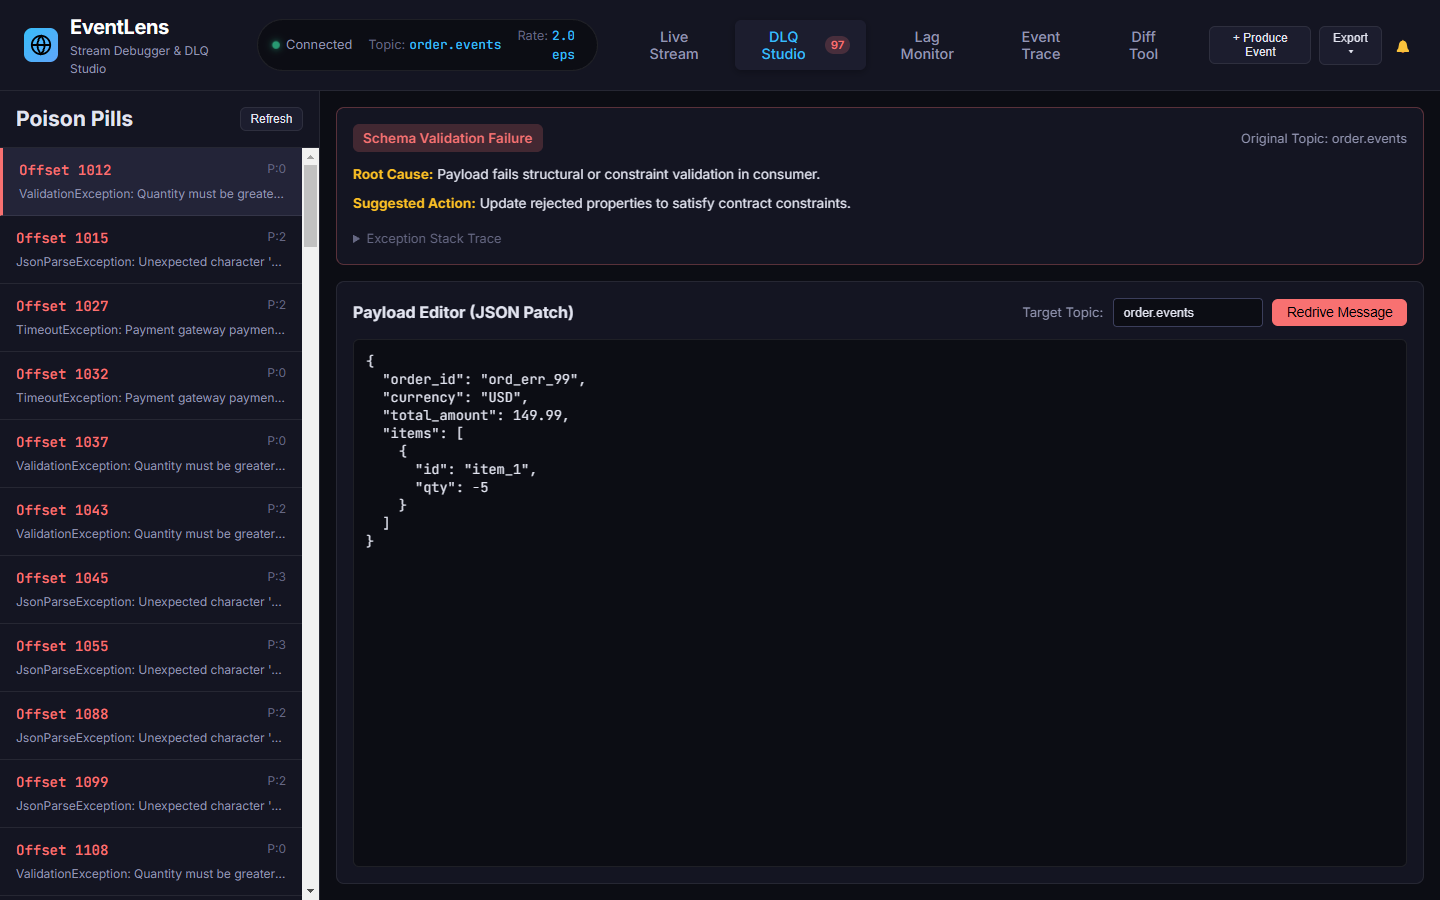
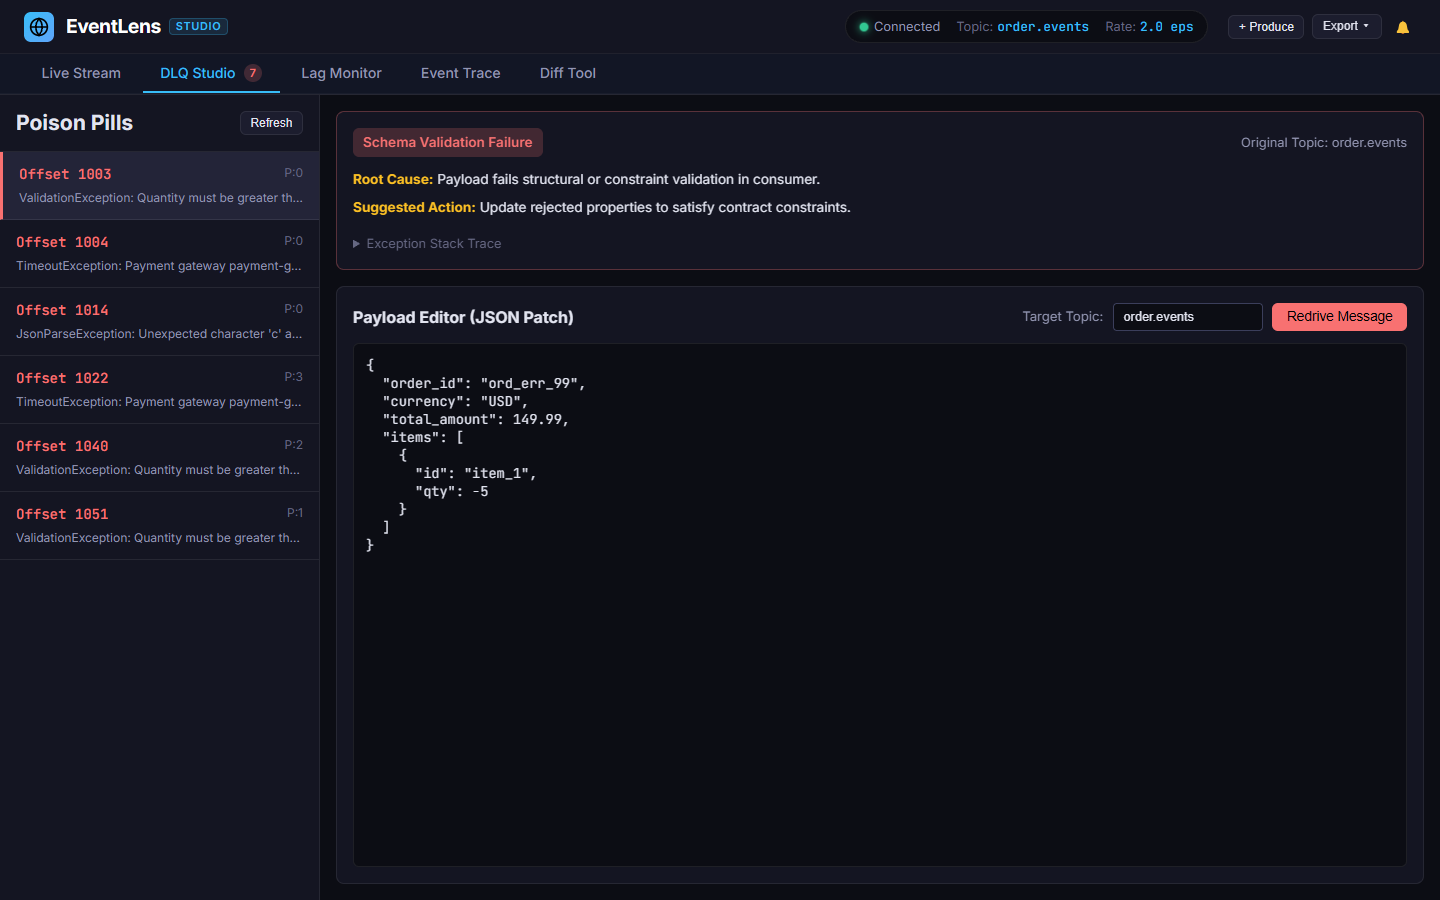
refactor(web): implement two-tier modern navbar architecture to eliminate header clutter and update screenshots

diff --git a/src/eventlens/web/static/index.html b/src/eventlens/web/static/index.html
@@ -12,57 +12,63 @@
 </head>
 <body class="dark-theme">
   <header class="app-header" id="app-header">
-    <div class="brand-group">
-      <div class="logo-badge">
-        <svg width="22" height="22" viewBox="0 0 24 24" fill="none" stroke="currentColor" stroke-width="2">
-          <circle cx="12" cy="12" r="10"></circle>
-          <line x1="2" y1="12" x2="22" y2="12"></line>
-          <path d="M12 2a15.3 15.3 0 0 1 4 10 15.3 15.3 0 0 1-4 10 15.3 15.3 0 0 1-4-10 15.3 15.3 0 0 1 4-10z"></path>
-        </svg>
-      </div>
-      <div class="brand-text">
-        <h1 class="brand-title">EventLens</h1>
-        <span class="brand-subtitle">Stream Debugger & DLQ Studio</span>
-      </div>
-    </div>
-
-    <div class="header-status-panel">
-      <div class="status-chip" id="connection-status">
-        <span class="status-dot pulse-green"></span>
-        <span id="conn-text">Connecting...</span>
-      </div>
-      <div class="metric-chip">
-        <span class="metric-label">Topic:</span>
-        <span class="metric-val" id="active-topic">-</span>
-      </div>
-      <div class="metric-chip">
-        <span class="metric-label">Rate:</span>
-        <span class="metric-val" id="eps-counter">0.0 eps</span>
-      </div>
-    </div>
-
-    <nav class="nav-tabs" id="navigation-tabs">
-      <button class="tab-btn active" data-tab="streams" id="tab-streams-btn">Live Stream</button>
-      <button class="tab-btn" data-tab="dlq" id="tab-dlq-btn">
-        DLQ Studio <span class="badge badge-red" id="dlq-count-badge">0</span>
-      </button>
-      <button class="tab-btn" data-tab="lag" id="tab-lag-btn">Lag Monitor</button>
-      <button class="tab-btn" data-tab="trace" id="tab-trace-btn">Event Trace</button>
-      <button class="tab-btn" data-tab="diff" id="tab-diff-btn">Diff Tool</button>
-    </nav>
-
-    <div class="header-action-group">
-      <button class="btn btn-secondary btn-sm" id="btn-open-produce">+ Produce Event</button>
-      <div class="dropdown">
-        <button class="btn btn-secondary btn-sm" id="btn-export-dropdown">Export ▾</button>
-        <div class="dropdown-menu" id="export-menu">
-          <a href="/api/export?format=json" download="eventlens_stream.json">JSON Format</a>
-          <a href="/api/export?format=ndjson" download="eventlens_stream.ndjson">NDJSON Format</a>
-          <a href="/api/export?format=csv" download="eventlens_stream.csv">CSV Format</a>
-          <a href="/api/export?format=json&dlq_only=true" download="eventlens_dlq.json">DLQ Only (JSON)</a>
+    <div class="header-top">
+      <div class="brand-group">
+        <div class="logo-badge">
+          <svg width="20" height="20" viewBox="0 0 24 24" fill="none" stroke="currentColor" stroke-width="2">
+            <circle cx="12" cy="12" r="10"></circle>
+            <line x1="2" y1="12" x2="22" y2="12"></line>
+            <path d="M12 2a15.3 15.3 0 0 1 4 10 15.3 15.3 0 0 1-4 10 15.3 15.3 0 0 1-4-10 15.3 15.3 0 0 1 4-10z"></path>
+          </svg>
+        </div>
+        <div class="brand-title-wrap">
+          <h1 class="brand-title">EventLens</h1>
+          <span class="brand-tag">Studio</span>
         </div>
       </div>
-      <button class="btn-icon" id="btn-toggle-sound" title="Toggle Audio Alerts">🔔</button>
+
+      <div class="header-right-group">
+        <div class="header-status-panel">
+          <div class="status-chip" id="connection-status">
+            <span class="status-dot pulse-green"></span>
+            <span id="conn-text">Connecting...</span>
+          </div>
+          <div class="metric-chip">
+            <span class="metric-label">Topic:</span>
+            <span class="metric-val" id="active-topic">-</span>
+          </div>
+          <div class="metric-chip">
+            <span class="metric-label">Rate:</span>
+            <span class="metric-val" id="eps-counter">0.0 eps</span>
+          </div>
+        </div>
+
+        <div class="header-action-group">
+          <button class="btn btn-secondary btn-sm" id="btn-open-produce">+ Produce</button>
+          <div class="dropdown">
+            <button class="btn btn-secondary btn-sm" id="btn-export-dropdown">Export ▾</button>
+            <div class="dropdown-menu" id="export-menu">
+              <a href="/api/export?format=json" download="eventlens_stream.json">JSON Format</a>
+              <a href="/api/export?format=ndjson" download="eventlens_stream.ndjson">NDJSON Format</a>
+              <a href="/api/export?format=csv" download="eventlens_stream.csv">CSV Format</a>
+              <a href="/api/export?format=json&dlq_only=true" download="eventlens_dlq.json">DLQ Only (JSON)</a>
+            </div>
+          </div>
+          <button class="btn-icon" id="btn-toggle-sound" title="Toggle Audio Alerts">🔔</button>
+        </div>
+      </div>
+    </div>
+
+    <div class="header-subnav">
+      <nav class="nav-tabs" id="navigation-tabs">
+        <button class="tab-btn active" data-tab="streams" id="tab-streams-btn">Live Stream</button>
+        <button class="tab-btn" data-tab="dlq" id="tab-dlq-btn">
+          DLQ Studio <span class="badge badge-red" id="dlq-count-badge">0</span>
+        </button>
+        <button class="tab-btn" data-tab="lag" id="tab-lag-btn">Lag Monitor</button>
+        <button class="tab-btn" data-tab="trace" id="tab-trace-btn">Event Trace</button>
+        <button class="tab-btn" data-tab="diff" id="tab-diff-btn">Diff Tool</button>
+      </nav>
     </div>
   </header>
 

diff --git a/src/eventlens/web/static/styles.css b/src/eventlens/web/static/styles.css
@@ -43,40 +43,70 @@ body {
 .app-header {
   background: var(--bg-surface);
   border-bottom: 1px solid var(--border-subtle);
-  padding: 0.75rem 1.5rem;
+  display: flex;
+  flex-direction: column;
+}
+
+.header-top {
   display: flex;
   align-items: center;
   justify-content: space-between;
+  padding: 0.65rem 1.5rem;
   gap: 1.5rem;
+  border-bottom: 1px solid rgba(255, 255, 255, 0.05);
 }
 
 .brand-group {
   display: flex;
   align-items: center;
   gap: 0.75rem;
+  white-space: nowrap;
 }
 
 .logo-badge {
   background: linear-gradient(135deg, var(--accent-cyan), var(--accent-blue));
   color: #000;
-  border-radius: 8px;
-  padding: 6px;
+  border-radius: 7px;
+  padding: 5px;
   display: flex;
   align-items: center;
   justify-content: center;
+  flex-shrink: 0;
+}
+
+.brand-title-wrap {
+  display: flex;
+  align-items: center;
+  gap: 0.5rem;
 }
 
 .brand-title {
-  font-size: 1.25rem;
+  font-size: 1.2rem;
   font-weight: 700;
   letter-spacing: -0.02em;
   color: #fff;
+  white-space: nowrap;
+  line-height: 1;
 }
 
-.brand-subtitle {
-  font-size: 0.75rem;
-  color: var(--text-muted);
-  display: block;
+.brand-tag {
+  font-size: 0.68rem;
+  font-weight: 600;
+  text-transform: uppercase;
+  letter-spacing: 0.06em;
+  padding: 2px 6px;
+  border-radius: 4px;
+  background: rgba(56, 189, 248, 0.12);
+  color: var(--accent-cyan);
+  border: 1px solid rgba(56, 189, 248, 0.25);
+  line-height: 1;
+}
+
+.header-right-group {
+  display: flex;
+  align-items: center;
+  gap: 1.25rem;
+  white-space: nowrap;
 }
 
 .header-status-panel {
@@ -87,6 +117,7 @@ body {
   padding: 0.35rem 0.85rem;
   border-radius: 9999px;
   border: 1px solid var(--border-subtle);
+  white-space: nowrap;
 }
 
 .status-chip {
@@ -95,6 +126,7 @@ body {
   gap: 0.4rem;
   font-size: 0.8rem;
   color: var(--text-muted);
+  white-space: nowrap;
 }
 
 .status-dot {
@@ -102,6 +134,7 @@ body {
   height: 8px;
   border-radius: 50%;
   background: var(--accent-green);
+  flex-shrink: 0;
 }
 
 .pulse-green {
@@ -119,48 +152,76 @@ body {
   font-size: 0.8rem;
   display: flex;
   gap: 0.25rem;
+  white-space: nowrap;
 }
 
 .metric-label {
   color: var(--text-dim);
+  white-space: nowrap;
 }
 
 .metric-val {
   color: var(--accent-cyan);
   font-family: var(--font-mono);
   font-weight: 500;
+  white-space: nowrap;
+}
+
+.header-action-group {
+  display: flex;
+  align-items: center;
+  gap: 0.5rem;
+  white-space: nowrap;
+}
+
+/* Subnav Tabs Bar */
+.header-subnav {
+  background: rgba(15, 23, 42, 0.35);
+  padding: 0 1.5rem;
+  display: flex;
+  align-items: center;
+  overflow-x: auto;
+  scrollbar-width: none;
+  border-bottom: 1px solid rgba(255, 255, 255, 0.03);
+}
+
+.header-subnav::-webkit-scrollbar {
+  display: none;
 }
 
 .nav-tabs {
   display: flex;
-  gap: 0.5rem;
+  gap: 0.25rem;
 }
 
 .tab-btn {
   background: transparent;
   border: none;
+  border-bottom: 2px solid transparent;
+  border-radius: 0;
   color: var(--text-muted);
   font-family: var(--font-ui);
-  font-size: 0.9rem;
+  font-size: 0.88rem;
   font-weight: 500;
-  padding: 0.5rem 1rem;
-  border-radius: 6px;
+  padding: 0.6rem 1.1rem;
   cursor: pointer;
-  transition: all 0.2s ease;
-  display: flex;
+  transition: all 0.15s ease;
+  display: inline-flex;
   align-items: center;
   gap: 0.5rem;
+  white-space: nowrap;
 }
 
 .tab-btn:hover {
-  background: var(--bg-overlay);
   color: #fff;
+  border-bottom-color: rgba(56, 189, 248, 0.35);
 }
 
 .tab-btn.active {
-  background: var(--bg-overlay);
   color: var(--accent-cyan);
-  box-shadow: 0 2px 8px rgba(0, 0, 0, 0.3);
+  border-bottom-color: var(--accent-cyan);
+  background: transparent;
+  box-shadow: none;
 }
 
 .badge {
@@ -168,6 +229,7 @@ body {
   padding: 2px 6px;
   border-radius: 10px;
   font-weight: 600;
+  white-space: nowrap;
 }
 
 .badge-red {
@@ -974,17 +1036,19 @@ body {
 }
 
 @media (max-width: 1024px) {
-  .app-header {
-    flex-wrap: wrap;
-    padding: 0.6rem 1rem;
+  .header-top {
+    padding: 0.5rem 1rem;
     gap: 0.75rem;
+  }
+
+  .header-subnav {
+    padding: 0 1rem;
   }
 
   .nav-tabs {
     overflow-x: auto;
     white-space: nowrap;
     -webkit-overflow-scrolling: touch;
-    padding: 0 1rem;
   }
 
   .toolbar {
@@ -1030,14 +1094,26 @@ body {
 }
 
 @media (max-width: 768px) {
-  .brand-subtitle {
-    display: none;
+  .header-top {
+    flex-direction: column;
+    align-items: stretch;
+    gap: 0.6rem;
+    padding: 0.5rem 0.75rem;
+  }
+
+  .header-right-group {
+    justify-content: space-between;
+    width: 100%;
   }
 
   .header-status-panel {
     gap: 0.5rem;
     padding: 0.25rem 0.6rem;
     font-size: 0.75rem;
+  }
+
+  .header-subnav {
+    padding: 0 0.5rem;
   }
 
   .toolbar {
